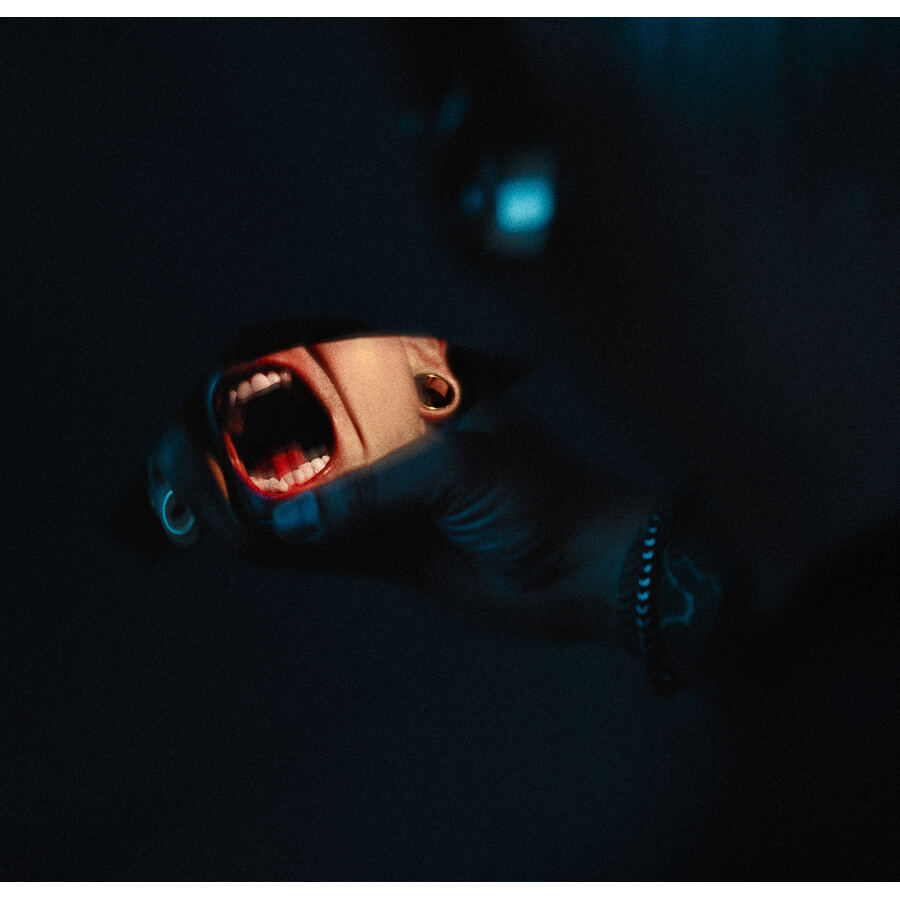
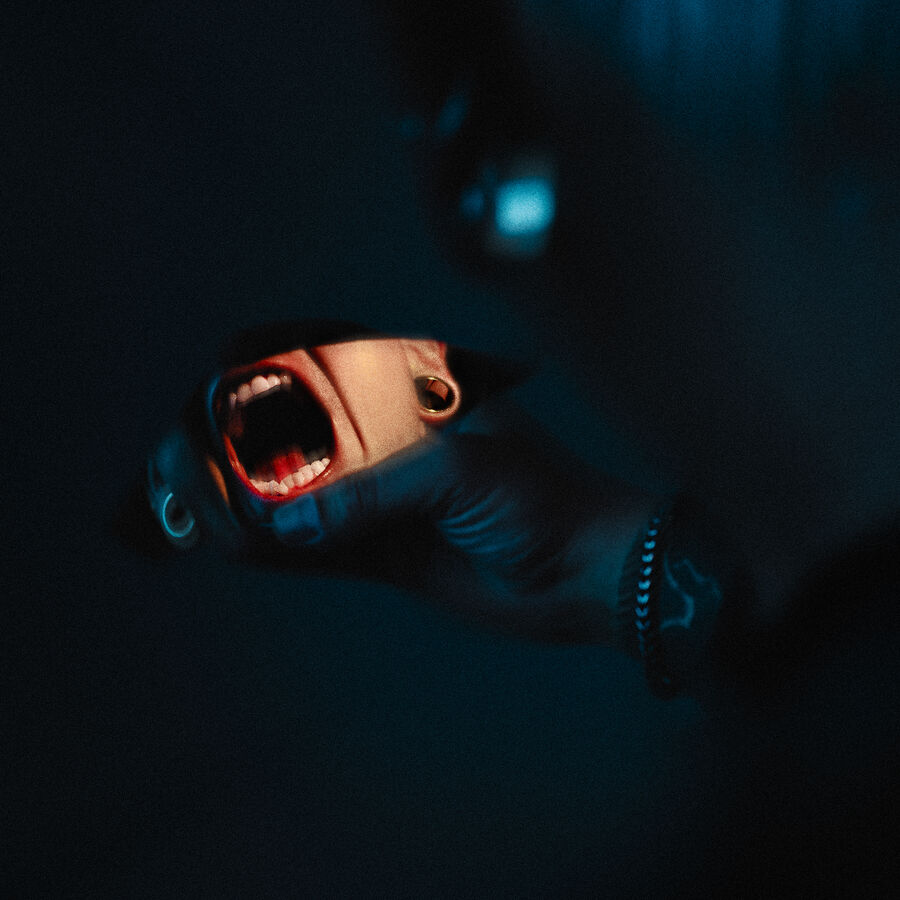
test3: definitive Second Hand Love artwork instead of placeholders
Claude-Session: https://claude.ai/code/session_014amxk9zGYBrqbwEVtXWmqQ

diff --git a/test3/index.html b/test3/index.html
@@ -6,7 +6,7 @@
   <meta name="robots" content="noindex, nofollow">
   <meta name="theme-color" content="#05080b">
   <title>Dreamshade – test3</title>
-  <link rel="stylesheet" href="assets/site.css?v=202610061558">
+  <link rel="stylesheet" href="assets/site.css?v=202610212224">
 </head>
 <body>
 
@@ -63,7 +63,7 @@
         <p class="eyebrow">Music</p>
         <h2>Single title <span class="ph-tag">placeholder</span></h2>
         <div class="single">
-          <div class="ph video media"><img src="assets/photos/single-mirror.jpg" alt="" width="1400" height="1346"><span>Placeholder · official video (YouTube)</span></div>
+          <div class="ph video media"><img src="assets/photos/single-mirror.jpg" alt="" width="1400" height="1400"><span>Placeholder · official video (YouTube)</span></div>
           <div>
             <p class="lede">One or two lines about the single.</p>
             <ul class="links">
@@ -76,7 +76,7 @@
         </div>
 
         <div class="singles">
-          <div><div class="ph">Single 1</div><p>Earlier singles from the new album line up here as they come out.</p></div>
+          <div><div class="ph media single-cover"><img src="assets/photos/shl-cover.jpg" alt="Second Hand Love – single cover" width="800" height="800"></div><p>Second Hand Love</p></div>
           <div><div class="ph">Single 2</div></div>
           <div><div class="ph">Single 3</div></div>
         </div>
@@ -331,7 +331,7 @@
       });
     })();
   </script>
-  <script src="assets/motion.js?v=202610061558"></script>
+  <script src="assets/motion.js?v=202610212224"></script>
   <script charset="utf-8" src="https://widget.bandsintown.com/main.min.js"></script>
   <script src="https://f.convertkit.com/ckjs/ck.5.js"></script>
 </body>

diff --git a/test3/assets/site.css b/test3/assets/site.css
@@ -173,6 +173,7 @@ p { margin: 0; }
 .links span:last-child { color: var(--faint); font-size: 11px; letter-spacing: .2em; text-transform: uppercase; }
 .singles { display: grid; grid-template-columns: repeat(3, 1fr); gap: 20px; margin-top: 56px; }
 .singles .ph { aspect-ratio: 1; }
+.singles .ph.media img { opacity: 1; }
 .singles p { margin-top: 10px; font-size: 13px; color: var(--mute); }
 
 /* ---------- zone 3: album ---------- */

diff --git a/test3/press/index.html b/test3/press/index.html
@@ -6,7 +6,7 @@
   <meta name="robots" content="noindex, nofollow">
   <meta name="theme-color" content="#05080b">
   <title>Dreamshade – Press kit (test3)</title>
-  <link rel="stylesheet" href="../assets/site.css?v=202610061558">
+  <link rel="stylesheet" href="../assets/site.css?v=202610212224">
 </head>
 <body>
 
